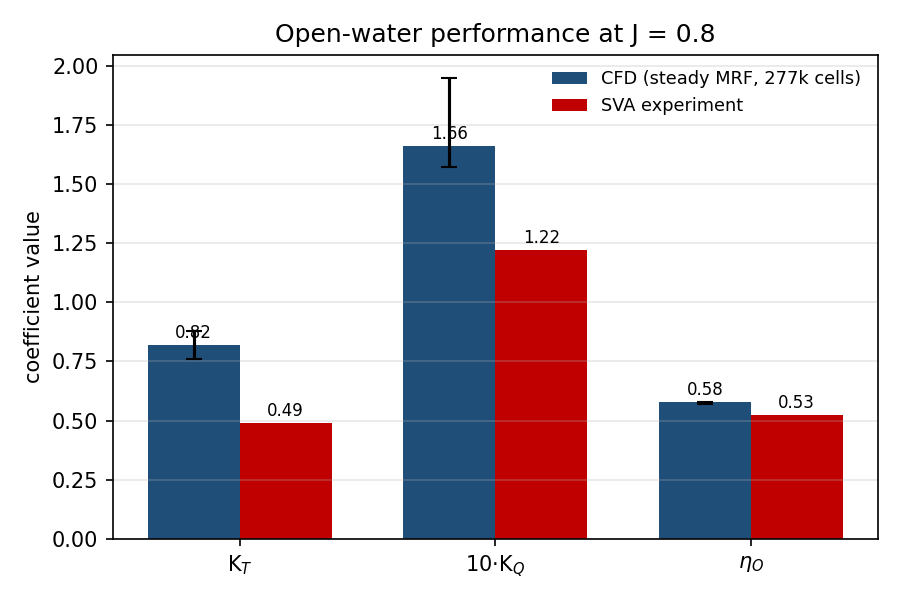
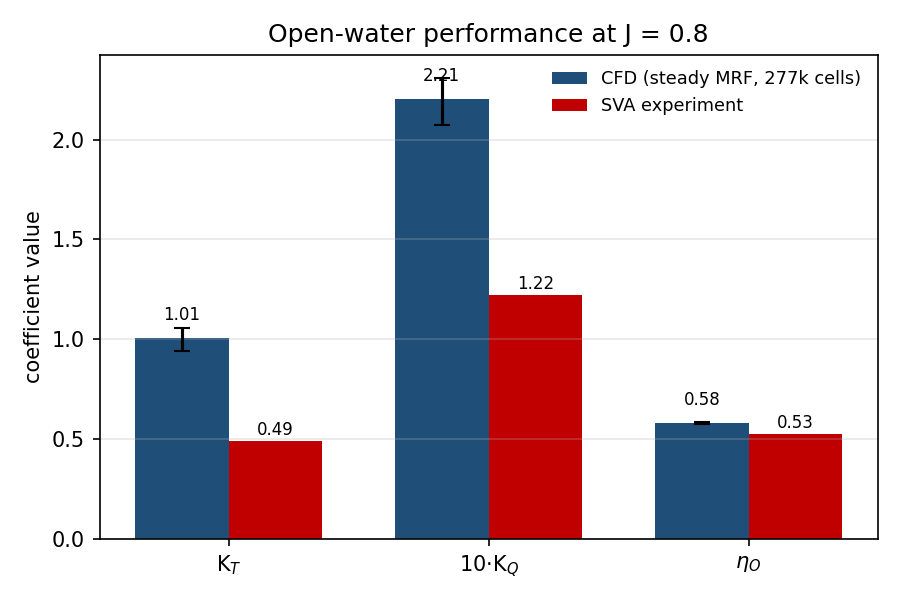
Fix fig3 consistency: report all coefficients from the same iteration window, update spans in report

diff --git a/propeller/figures/fig3_openwater.py b/propeller/figures/fig3_openwater.py
@@ -5,9 +5,9 @@ oscillation range as error bars; SVA are the Potsdam experimental values.
 import matplotlib.pyplot as plt, numpy as np
 
 labels = ['K$_T$', '10·K$_Q$', r'$\eta_O$']
-cfd_mean = [0.82, 1.66, 0.58]
-cfd_lo   = [0.76, 1.57, 0.57]
-cfd_hi   = [0.88, 1.95, 0.58]
+cfd_mean = [1.007, 2.206, 0.581]
+cfd_lo   = [0.943, 2.071, 0.577]
+cfd_hi   = [1.058, 2.311, 0.584]
 sva      = [0.489, 1.22, 0.525]
 
 x = np.arange(len(labels)); w = 0.36
@@ -18,7 +18,7 @@ ax.bar(x-w/2, cfd_mean, w, yerr=err, capsize=4, color='#1f4e79',
        label='CFD (steady MRF, 277k cells)')
 ax.bar(x+w/2, sva, w, color='#c00000', label='SVA experiment')
 for i,(c,s) in enumerate(zip(cfd_mean,sva)):
-    ax.text(i-w/2, c+0.03, f'{c:.2f}', ha='center', fontsize=8)
+    ax.text(i-w/2, c+0.09, f'{c:.2f}', ha='center', fontsize=8)
     ax.text(i+w/2, s+0.03, f'{s:.2f}', ha='center', fontsize=8)
 ax.set_xticks(x); ax.set_xticklabels(labels)
 ax.set_ylabel('coefficient value')

diff --git a/propeller/PPTC_VP1304_CFD_report.md b/propeller/PPTC_VP1304_CFD_report.md
@@ -9,7 +9,7 @@ Mechanical Engineering Student, Aristotle University of Thessaloniki
 
 ## Abstract
 
-A steady RANS simulation of the SVA Potsdam PPTC VP1304 controllable-pitch propeller was carried out in OpenFOAM at the design advance ratio J = 0.8 and compared against the published open-water measurements (K_T = 0.489, K_Q = 0.122, η_O = 0.525). The multiple-reference-frame (MRF) frozen-rotor solution reproduces the *efficiency* of the propeller almost exactly (η_O ≈ 0.58, about +10 %) but overpredicts the *magnitude* of the loading by roughly 1.5–2× (post-transient K_T ≈ 0.7–1.0). Because a matched efficiency implies correct flow angles and a correct effective advance ratio, the error is one of force magnitude rather than of gross setup. The bulk of this report is devoted to tracing that magnitude error. Five candidate causes were tested and eliminated with quantitative evidence: near-wall treatment, blade-surface mesh resolution, far-field boundary condition, blade pitch fidelity, and hub/shaft contribution. The residual is attributed not to a discrete, correctable bug but to two coupled limits. The first is an under-resolved tip vortex that would require a cell count well beyond the 8 GB hardware envelope. The second is the intrinsic ceiling of the steady frozen-rotor MRF method for a heavily loaded, high-pitch propeller, evidenced by a thrust history that never reaches a plateau but instead drifts slowly upward at stable residuals. The value of the study is the diagnostic chain, not the raw coefficient.
+A steady RANS simulation of the SVA Potsdam PPTC VP1304 controllable-pitch propeller was carried out in OpenFOAM at the design advance ratio J = 0.8 and compared against the published open-water measurements (K_T = 0.489, K_Q = 0.122, η_O = 0.525). The multiple-reference-frame (MRF) frozen-rotor solution reproduces the *efficiency* of the propeller to within about 10 % (η_O ≈ 0.58 vs 0.525) but overpredicts the *magnitude* of the loading by roughly 1.4–2.2× (post-transient K_T ≈ 0.69–1.06). Because a matched efficiency implies correct flow angles and a correct effective advance ratio, the error is one of force magnitude rather than of gross setup. The bulk of this report is devoted to tracing that magnitude error. Five candidate causes were tested and eliminated with quantitative evidence: near-wall treatment, blade-surface mesh resolution, far-field boundary condition, blade pitch fidelity, and hub/shaft contribution. The residual is attributed not to a discrete, correctable bug but to two coupled limits. The first is an under-resolved tip vortex that would require a cell count well beyond the 8 GB hardware envelope. The second is the intrinsic ceiling of the steady frozen-rotor MRF method for a heavily loaded, high-pitch propeller, evidenced by a thrust history that never reaches a plateau but instead drifts slowly upward at stable residuals. The value of the study is the diagnostic chain, not the raw coefficient.
 
 ---
 
@@ -87,8 +87,8 @@ Coefficients are reported as ranges over the post-transient part of the run, not
 
 | Coefficient | CFD (post-transient span) | SVA | Ratio |
 |---|---|---|---|
-| K_T | 0.70 – 1.00 (does not converge) | 0.489 | ~1.5–2× |
-| 10·K_Q | ~1.4 – 2.0 (tracks K_T) | 1.22 | ~1.2–1.6× |
+| K_T | 0.69 – 1.06 (does not converge) | 0.489 | ~1.4–2.2× |
+| 10·K_Q | 1.51 – 2.31 (tracks K_T) | 1.22 | ~1.2–1.9× |
 | η_O | 0.57 – 0.58 (stable) | 0.525 | +10 % |
 
 The efficiency is the one coefficient that *is* stable across the whole run; K_T and K_Q drift together while their ratio holds. That is the single most useful observation in the table, and the paragraphs below explain why.
@@ -103,7 +103,7 @@ Two features dominate the result and drive the rest of the report.
 
 *Figure 2. Thrust history, read directly from the solver force output.*
 
-**Efficiency is essentially correct while magnitude is not.** η_O ≈ 0.58 sits within a few percent of the measured 0.525, whereas K_T and K_Q are both high by 40–70 %. Efficiency is the *ratio* of thrust to torque, and it is set by the flow angles the blade sections see, namely the effective angle of attack and the effective advance ratio. That this ratio comes out right, while both forces come out too large, is the central diagnostic clue: the simulation has the *kinematics* of the flow right and the *magnitude* of the loading wrong. It rules out an entire class of gross errors (wrong ω, wrong effective J, double-counted rotation, mis-identified force patch) before any of them is tested individually.
+**Efficiency is essentially correct while magnitude is not.** η_O ≈ 0.58 sits within about 10 % of the measured 0.525, whereas K_T and K_Q are both high by 80–105 %. Efficiency is the *ratio* of thrust to torque, and it is set by the flow angles the blade sections see, namely the effective angle of attack and the effective advance ratio. That this ratio comes out right, while both forces come out too large, is the central diagnostic clue: the simulation has the *kinematics* of the flow right and the *magnitude* of the loading wrong. It rules out an entire class of gross errors (wrong ω, wrong effective J, double-counted rotation, mis-identified force patch) before any of them is tested individually.
 
 ---
 
@@ -139,7 +139,7 @@ With all five eliminated or bounded, the "easy" explanations are exhausted, and,
 
 The residual error is best understood as the combination of two limits that the present configuration cannot escape.
 
-**The tip vortex is under-resolved, and resolving it is out of budget.** For a high-pitch, heavily loaded blade the dominant mechanism of thrust *over*-prediction is an unresolved tip vortex: when the mesh cannot capture the vortex, the induced downwash that would relieve the tip is missing, the tip section sees too large an effective angle of attack, and it is overloaded. This overloads K_T more than K_Q, exactly the observed pattern (K_T high by roughly 70 %, K_Q by roughly 40 %), while leaving the efficiency ratio roughly intact. Capturing the tip vortex properly is a well-known heavy-mesh requirement; a published SimScale study of this same propeller needed on the order of 22 million cells to reach ~5 % error. Against the ~277 k cells that fit in 8 GB, that is roughly a 22× cell-count gap. In three dimensions, doubling the resolution in each direction costs 8× the cells, so even a 16 GB machine (about 2× cells) would not span it; this is a 64–128 GB or cloud/cluster-class requirement, not a next-laptop one.
+**The tip vortex is under-resolved, and resolving it is out of budget.** For a high-pitch, heavily loaded blade the dominant mechanism of thrust *over*-prediction is an unresolved tip vortex: when the mesh cannot capture the vortex, the induced downwash that would relieve the tip is missing, the tip section sees too large an effective angle of attack, and it is overloaded. This overloads K_T more than K_Q, exactly the observed pattern (K_T high by roughly 105 %, K_Q by roughly 80 %), while leaving the efficiency ratio roughly intact. Capturing the tip vortex properly is a well-known heavy-mesh requirement; a published SimScale study of this same propeller needed on the order of 22 million cells to reach ~5 % error. Against the ~277 k cells that fit in 8 GB, that is roughly a 22× cell-count gap. In three dimensions, doubling the resolution in each direction costs 8× the cells, so even a 16 GB machine (about 2× cells) would not span it; this is a 64–128 GB or cloud/cluster-class requirement, not a next-laptop one.
 
 **The steady frozen-rotor MRF has an intrinsic ceiling here.** The non-convergent upward drift at stable residuals (Figure 2) is the direct evidence: the method is being asked to hold a genuinely unsteady wake in a steady state, and it cannot. No amount of memory removes this; escaping it requires a *transient* sliding-mesh simulation with real rotation, which is one to two orders of magnitude more expensive in wall-clock time.
 
@@ -149,7 +149,7 @@ So reaching the measured K_T = 0.489 would require, together, a mesh on the orde
 
 ## 6. Conclusions and future work
 
-At J = 0.8 the steady MRF model reproduces the propeller's efficiency to within a few percent (η_O ≈ 0.58 vs 0.525) but over-predicts thrust and torque by roughly 1.5–2× (post-transient K_T ≈ 0.7–1.0 vs 0.489). The matched efficiency localises the error to loading *magnitude* rather than flow *kinematics*.
+At J = 0.8 the steady MRF model reproduces the propeller's efficiency to within about 10 % (η_O ≈ 0.58 vs 0.525) but over-predicts thrust and torque by roughly 1.4–2.2× (post-transient K_T ≈ 0.69–1.06 vs 0.489). The matched efficiency localises the error to loading *magnitude* rather than flow *kinematics*.
 
 That magnitude error was traced systematically. Near-wall treatment, blade-surface resolution and far-field blockage were each tested and shown not to move the result; the blade pitch was measured from the geometry and confirmed at design value (P/D 1.65 vs 1.635); the hub/shaft contribution was bounded to ≤ 10–15 % on physical grounds. The residual is consistent with an under-resolved tip vortex and the intrinsic ceiling of a steady frozen-rotor method for a heavily loaded, high-pitch propeller. The latter is evidenced by a thrust history that drifts upward at stable residuals instead of converging (Figure 2). Both limits sit beyond an 8 GB, steady-MRF envelope; neither is a discrete bug.
 